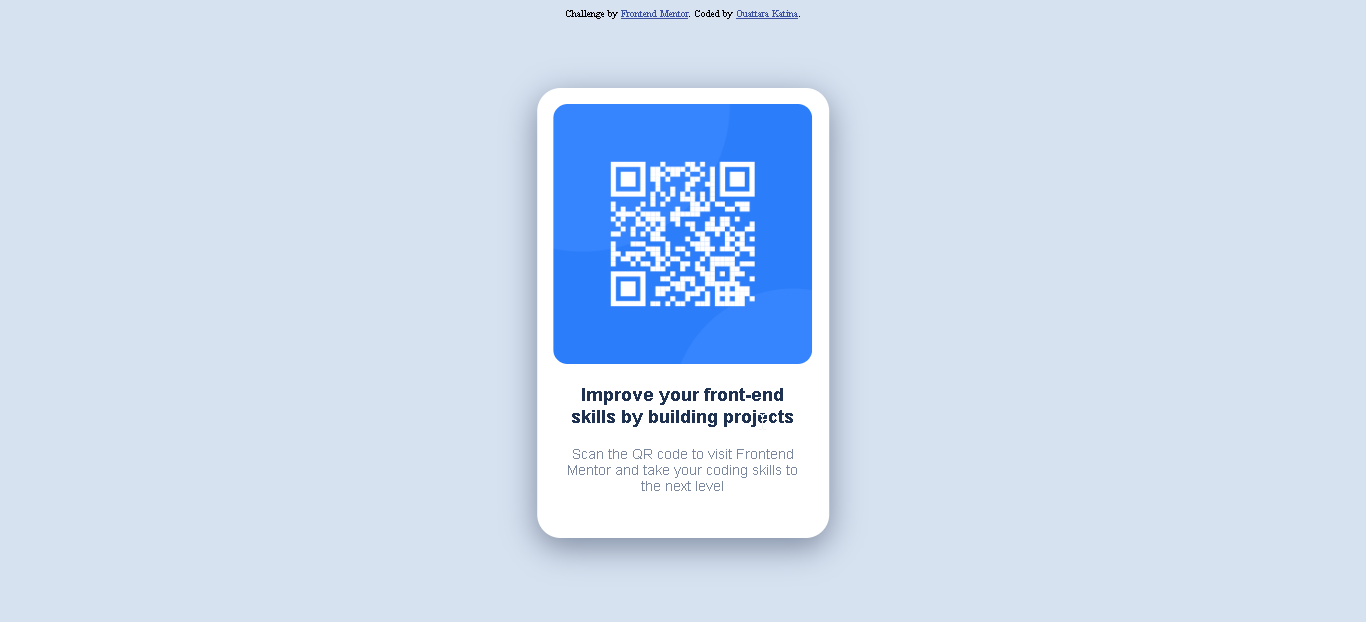
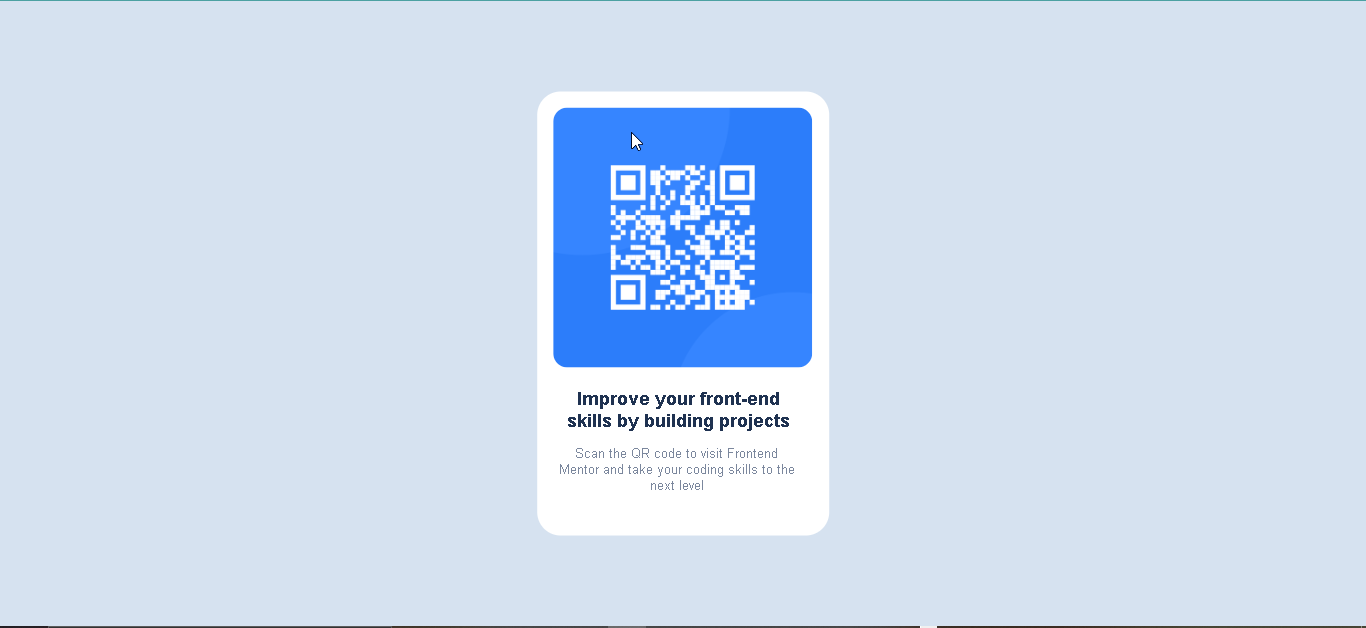
deleted READ-template.md modified index.html style.css images/mywork.png

diff --git a/index.html b/index.html
@@ -16,25 +16,23 @@
 
 <body>
   <!-- container of QR code card -->
-  <div class="main-content">
+  <main class="main-content">
     <div><img src="images/image-qr-code.png" alt="image-qr-code" class="content-img-QRcode"></div>
     <div class="text-content">
-      <p class="text-tile-card">
-        Improve your front-end <br> skills by building projects
-      </p>
-      <p>
-        Scan the QR code to visit Frontend <br> Mentor
-        and take your coding skills to <br> the next level
+      <h1 class="text-tile-card">Improve your front-end skills by building projects</h1>
+      <p class="text-descrip-card">
+        Scan the QR code to visit Frontend Mentor
+        and take your coding skills to the next level
       </p>
     </div>
-  </div>
+  </main>
 </body>
 
-<footer>
+<!-- <footer>
   <div class="attribution">
     Challenge by <a href="https://www.frontendmentor.io?ref=challenge" target="_blank">Frontend Mentor</a>. 
     Coded by <a href="https://github.com/Kaji17/Simple-QR-code-component" target="_blank">Ouattara Katina</a>.
   </div>
-</footer>
+</footer> -->
 
 </html>

diff --git a/style.css b/style.css
@@ -9,15 +9,14 @@ body{
     color: hsl(228, 45%, 44%);
 }
 .main-content {
-    height: 500px;
-    width: 324px;
+    max-height: 500px;
+    max-width: 324px;
     background-color: hsl(0, 0%, 100%) ;
     position: absolute;
     top: 50%;
     left: 50%;
     transform: translate(-50%, -50%);
     border-radius: 26px;
-    box-shadow: 0px 10px 36px hsl(220, 15%, 55%);
 }
 .content-img-QRcode{
     width: 288px;
@@ -31,12 +30,14 @@ body{
     font-weight: 700;
     font-size: 20px;
     margin-top: 0px;
+    margin-right: 10px;
 }
-p{
-    font-size: 15px;
+.text-descrip-card{
+    font-size: 14px;
     color: hsl(220, 15%, 55%);
     font-family: 'Outfit', sans-serif;
     font-weight: 400;
+    margin-right: 14px;
 }
 .text-content{
     width: 288px;
